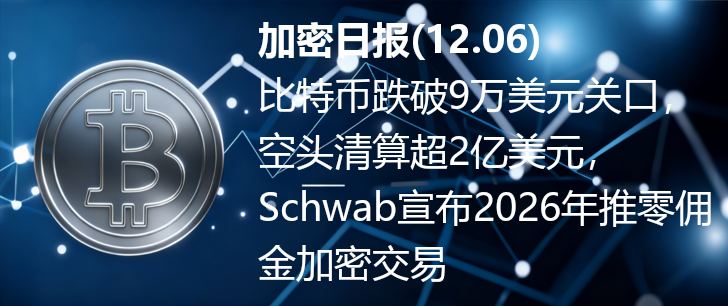
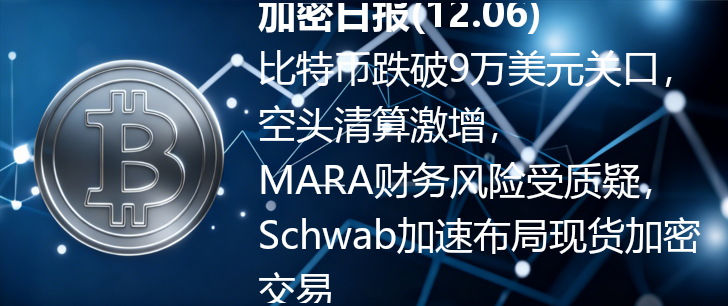
daily_news

Changed region(s): [[0.3324, 0.0, 0.9973, 1.0]]

diff --git a/files/latest_summary.md b/files/latest_summary.md
@@ -1,30 +1,43 @@
-### 一、加密货币市场整体下跌及价格动态
+### 一、比特币价格下跌及期货市场动态
 **总结**：
-1. 比特币期货及现货价格同步下跌，主力合约（CME）较前一日收盘跌3.68%，报89425美元，现货价格跌破90,000美元关键关口，市场整体承压。
-2. 空头清算规模扩大，24小时内比特币清算金额超2亿美元，部分主流加密货币（如HBAR）随市场同步下跌，成交量激增47%，技术面显示面临关键支撑位考验。
-3. 市场情绪偏空，技术指标显示比特币在90,000-88,000美元区间寻求支撑，若跌破可能引发更深回调，同时机构资金流向出现分化，部分资金转向索拉纳、XRP等山寨币ETF。
-
+1. 比特币价格跌破90,000美元关口，CME比特币期货主力合约周五（12月5日）纽约尾盘下跌3.68%，报89425美元，本周累计下跌1.80%。
+2. 比特币空头清算堆积超过2亿美元，市场情绪混杂，资金从比特币ETF转向索拉纳和XRP ETF，机构层面显示做空兴趣较高。
 **参考**：
-- [CME比特币期货BTC主力合约较周四纽约尾盘跌3.68%，报89425美元](https://wap.eastmoney.com/a/202512063584250367.html)
-- [主要加密货币下跌；比特币跌破90,000美元](https://news.futunn.com/post/65865524/top-cryptocurrencies-fall-bitcoin-drops-below-90000)
 - [比特币损失90K，空头在清算中堆积超过2亿美元- Bitcoin News](https://news.bitcoin.com/zh/bi-te-bi-sun-shi-90k-kong-tou-zai-qing-suan-zhong-dui-ji-chao-guo-2-yi-mei-yuan/)
-- [HBAR 伴随加密市场整体下跌及成交量激增同步下跌](https://www.coindesk.com/zh/markets/2025/12/05/hedera-drops-alongside-broader-crypto-market-amid-volume-spike)
-- [BTC 死守9万！今晚不破9.27万，空军就要砸盘了！ - Binance](https://www.binance.com/zh-CN/square/post/33302990673129)
+- [CME比特币期货BTC主力合约较周四纽约尾盘跌3.68%，报89425美元 - 东方财富](https://wap.eastmoney.com/a/202512063584250367.html)
+- [CME比特币期货BTC主力合约较周四纽约尾盘跌3.68%，报89425美元 - 网易](https://www.163.com/dy/article/KG2VFOKG0512B07B.html)
 
+---
 
-### 二、比特币持有者MARA的财务风险分析
+### 二、主要加密公司（MARA、MSTR）财务风险分析
 **总结**：
-1. 矿业公司MARA因33亿美元可转换债券债务，其企业价值（mNAV）达1.59，显著高于比特币最大持有者MSTR（mNAV 1.14），交易溢价更高，财务风险更大。
-2. 比特币价格下跌导致MARA股价从低点反弹30%后遇阻，空头兴趣异常高，市场担忧其债务结构与比特币价值关联模糊，股价波动加剧。
-
+1. Vaneck分析师认为MARA Holdings的财务风险大于Strategy（MSTR），MARA因33亿美元可转换债券导致企业价值（mNAV）达1.59，高于MSTR的1.14，债务结构更复杂，股价与比特币价值关联模糊，风险更高。
+2. 尽管MSTR和MARA均为比特币主要持有者，但MARA的高债务和高mNAV使其成为更具风险的选择，市场指标显示MARA面临更大金融崩溃风险。
 **参考**：
 - [Forgetting MSTR，Vaneck 的Sigel 表示，MARA 的麻烦更大。 - Bitcoin News](https://news.bitcoin.com/zh/forgetting-mstr-vaneck-de-sigel-biao-shi-mara-de-ma-fan-geng-da/)
 
+---
 
-### 三、传统金融机构Schwab计划进入加密交易市场
+### 三、传统金融机构（Schwab）加密市场布局及竞争影响
 **总结**：
-1. 美国传统金融机构Charles Schwab计划2026年中期推出现货比特币和以太坊免佣金交易，支持直接钱包转账，利用其多元化收入来源（如客户现金利息、咨询费等）补贴加密业务。
-2. 其零佣金模式可能与Coinbase等加密交易所展开费用战，推动零售加密交易成本下降，同时将影响Coinbase的零售交易抽成收入，加速传统金融机构对加密市场的渗透。
-
+1. 查尔斯·施瓦布（Schwab）计划2026年中期推出现货比特币和以太坊免佣金交易，支持直接钱包转账，消除用户在券商与加密交易所间切换的摩擦。
+2. 其低费用模式（接近现货比特币ETF经济模型）可能威胁Coinbase等加密交易所的零售业务，Coinbase依赖交易抽成的商业模式面临竞争压力。
 **参考**：
-- [Schwab SCHW 加密计划将COIN 置于2026 年目标 - NAI500](https://nai500.com/zh-hans/blog/2025/12/schwab-schw-coin-2026/)
+- [Schwab SCHW 加密计划将COIN置于2026年目标 - NAI500](https://nai500.com/zh-hans/blog/2025/12/05/schw-coin-2026/)
+
+---
+
+### 四、其他加密货币（HBAR）价格波动及技术面分析
+**总结**：
+1. HBAR伴随整体加密市场下跌，成交量激增47%至5221万代币，价格跌破0.1380美元支撑位，测试0.1354美元关键支撑，技术指标显示超卖但下行动能仍存，短期受技术面抛售主导。
+**参考**：
+- [HBAR 伴随加密市场整体下跌及成交量激增同步下跌 - CoinDesk](https://www.coindesk.com/zh/markets/2025/12/05/hedera-drops-alongside-broader-crypto-market-amid-volume-spike)
+
+---
+
+### 五、比特币市场情绪及技术面关键点位分析
+**总结**：
+1. 比特币在90,000美元附近震荡，1小时图显示MACD水下死叉、量能萎缩，关键支撑位在90,000-88,000美元区间，若跌破可能触发更深调整；上方压力位92,700美元，需突破该位置确认反弹信号。
+2. 市场预测若比特币不破92,700美元关键位，空军可能砸盘，建议关注技术面突破方向以判断下行动能。
+**参考**：
+- [BTC死守9万！今晚不破9.27万，空军就要砸盘了！ - Binance](https://www.binance.com/zh-CN/square/post/33302990673129)

diff --git a/files/latest_summary_cleaned.md b/files/latest_summary_cleaned.md
@@ -1,12 +1,18 @@
-### 一、加密货币市场整体下跌及价格动态
-1. 比特币期货及现货价格同步下跌，主力合约（CME）较前一日收盘跌3.68%，报89425美元，现货价格跌破90,000美元关键关口，市场整体承压。
-2. 空头清算规模扩大，24小时内比特币清算金额超2亿美元，部分主流加密货币（如HBAR）随市场同步下跌，成交量激增47%，技术面显示面临关键支撑位考验。
-3. 市场情绪偏空，技术指标显示比特币在90,000-88,000美元区间寻求支撑，若跌破可能引发更深回调，同时机构资金流向出现分化，部分资金转向索拉纳、XRP等山寨币ETF。
+### 一、比特币价格下跌及期货市场动态
+1. 比特币价格跌破90,000美元关口，CME比特币期货主力合约周五（12月5日）纽约尾盘下跌3.68%，报89425美元，本周累计下跌1.80%。
+2. 比特币空头清算堆积超过2亿美元，市场情绪混杂，资金从比特币ETF转向索拉纳和XRP ETF，机构层面显示做空兴趣较高。
 
-### 二、比特币持有者MARA的财务风险分析
-1. 矿业公司MARA因33亿美元可转换债券债务，其企业价值（mNAV）达1.59，显著高于比特币最大持有者MSTR（mNAV 1.14），交易溢价更高，财务风险更大。
-2. 比特币价格下跌导致MARA股价从低点反弹30%后遇阻，空头兴趣异常高，市场担忧其债务结构与比特币价值关联模糊，股价波动加剧。
+### 二、主要加密公司（MARA、MSTR）财务风险分析
+1. Vaneck分析师认为MARA Holdings的财务风险大于Strategy（MSTR），MARA因33亿美元可转换债券导致企业价值（mNAV）达1.59，高于MSTR的1.14，债务结构更复杂，股价与比特币价值关联模糊，风险更高。
+2. 尽管MSTR和MARA均为比特币主要持有者，但MARA的高债务和高mNAV使其成为更具风险的选择，市场指标显示MARA面临更大金融崩溃风险。
 
-### 三、传统金融机构Schwab计划进入加密交易市场
-1. 美国传统金融机构Charles Schwab计划2026年中期推出现货比特币和以太坊免佣金交易，支持直接钱包转账，利用其多元化收入来源（如客户现金利息、咨询费等）补贴加密业务。
-2. 其零佣金模式可能与Coinbase等加密交易所展开费用战，推动零售加密交易成本下降，同时将影响Coinbase的零售交易抽成收入，加速传统金融机构对加密市场的渗透。
+### 三、传统金融机构（Schwab）加密市场布局及竞争影响
+1. 查尔斯·施瓦布（Schwab）计划2026年中期推出现货比特币和以太坊免佣金交易，支持直接钱包转账，消除用户在券商与加密交易所间切换的摩擦。
+2. 其低费用模式（接近现货比特币ETF经济模型）可能威胁Coinbase等加密交易所的零售业务，Coinbase依赖交易抽成的商业模式面临竞争压力。
+
+### 四、其他加密货币（HBAR）价格波动及技术面分析
+1. HBAR伴随整体加密市场下跌，成交量激增47%至5221万代币，价格跌破0.1380美元支撑位，测试0.1354美元关键支撑，技术指标显示超卖但下行动能仍存，短期受技术面抛售主导。
+
+### 五、比特币市场情绪及技术面关键点位分析
+1. 比特币在90,000美元附近震荡，1小时图显示MACD水下死叉、量能萎缩，关键支撑位在90,000-88,000美元区间，若跌破可能触发更深调整；上方压力位92,700美元，需突破该位置确认反弹信号。
+2. 市场预测若比特币不破92,700美元关键位，空军可能砸盘，建议关注技术面突破方向以判断下行动能。
